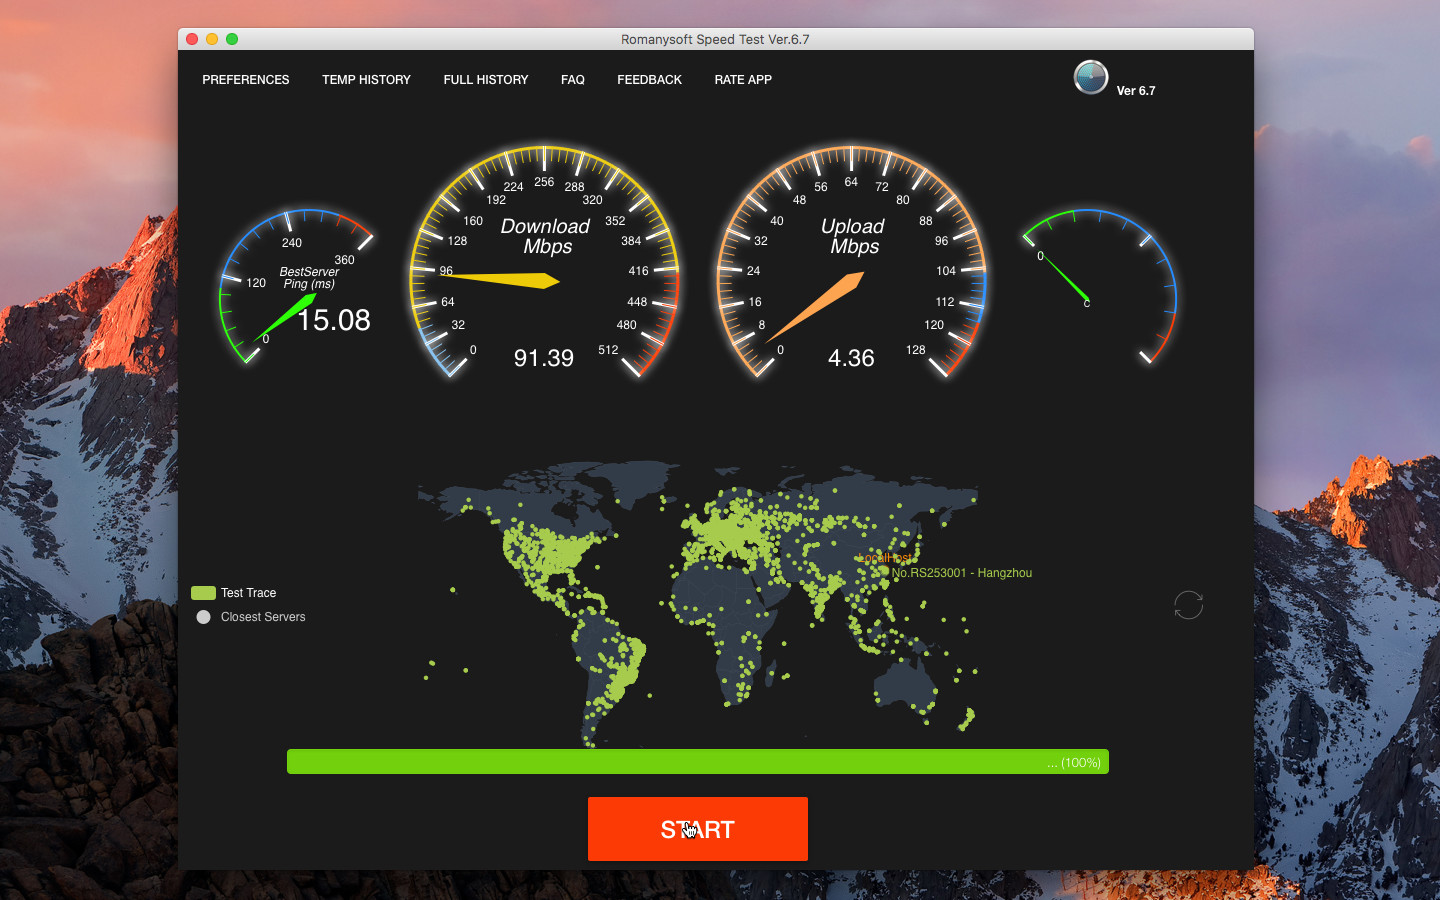
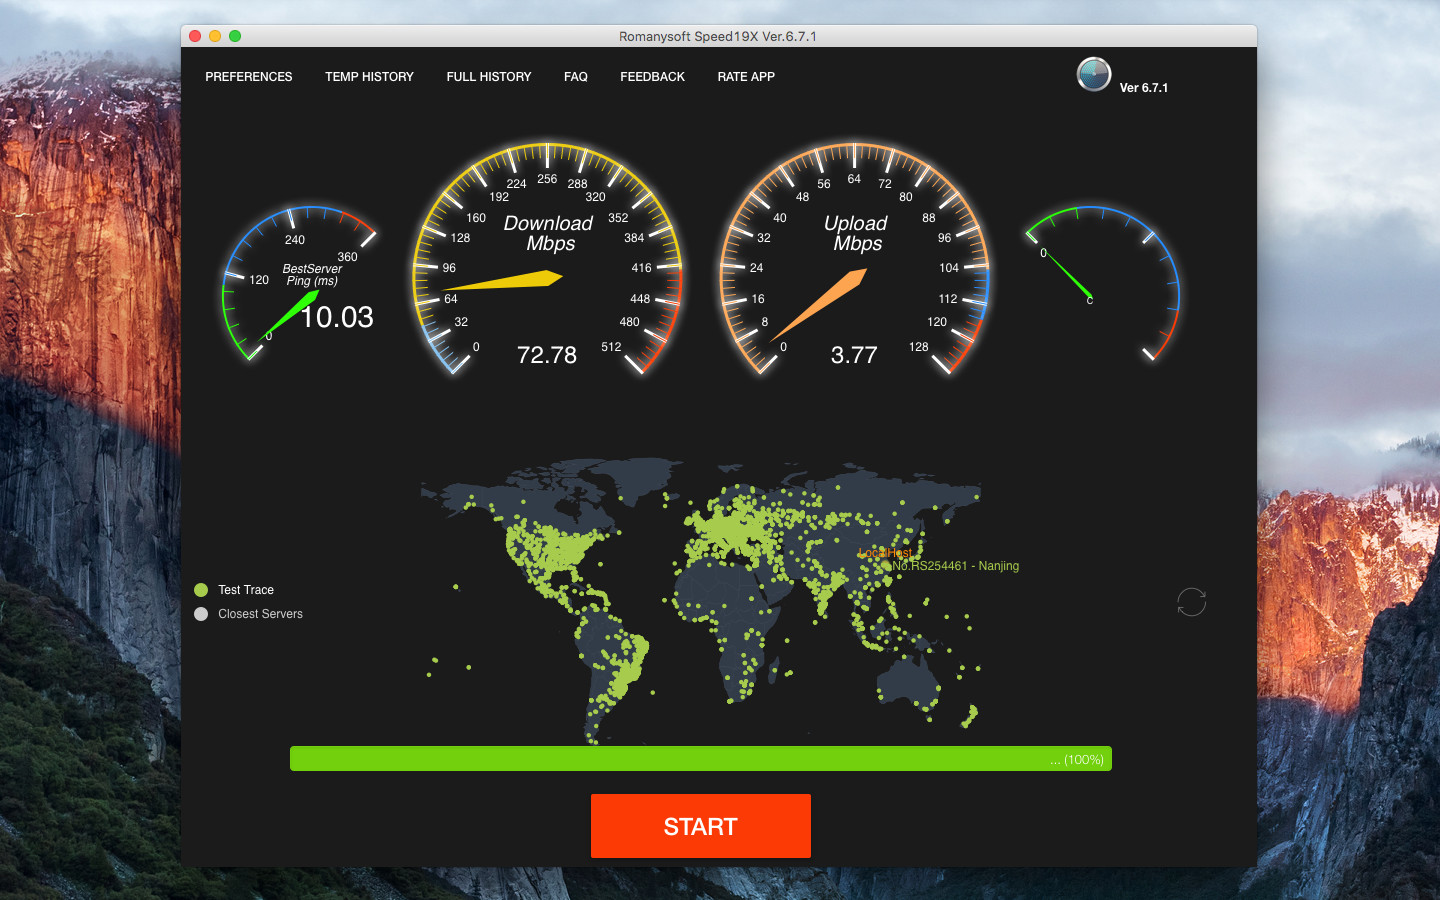
Upgrade to 6.7.1

diff --git a/js/config.js b/js/config.js
@@ -1,6 +1,6 @@
 (function () {
     window.RTYConfig = {
-        appName:"Romanysoft Speed Test",
+        appName:"Romanysoft Speed19X",
         appID:"com.romanysoft.app.macos.speedtest",
         documentTitle:"Romanysoft Speed Test",
         supportPlatforms:["Mac","Windows"],
